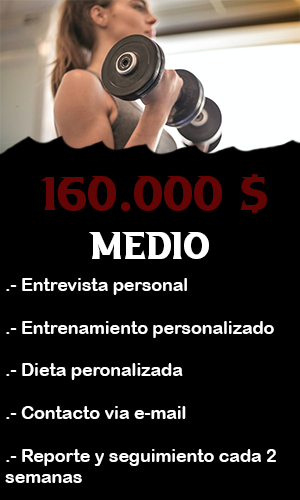
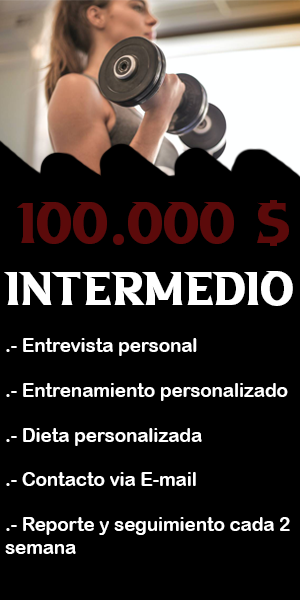
Index terminado

Changed region(s): [[0.0, 0.0, 1.0, 0.6], [0.0, 0.63, 0.96, 0.99]]

diff --git a/index.html b/index.html
@@ -8,6 +8,8 @@
     <link href="https://cdn.jsdelivr.net/npm/bootstrap@5.1.3/dist/css/bootstrap.min.css" rel="stylesheet" integrity="sha384-1BmE4kWBq78iYhFldvKuhfTAU6auU8tT94WrHftjDbrCEXSU1oBoqyl2QvZ6jIW3" crossorigin="anonymous">
   </head>
 <body>
+
+
   
     <main style="background-color: black;">
     
@@ -80,24 +82,87 @@
         </figure>
 
       </div>
-      <div class="container-fluid text-center" style="background-color: rgb(15, 0, 0);" id="precios">
-        <br>
-        <a class="btn btn-danger" href="#precios">Plan Mensual</a> <a class="btn btn-dark" href="#precios">Plan Trimensual</a>
+      
+      <div class="container-fluid text-center " style="background-color: rgb(15, 0, 0);" id="precios">
+        <br>  
+        <a class="btn btn-danger" onclick="cambiarimagen(0)" >Plan Mensual</a> <a class="btn btn-dark" onclick="cambiarimagen(1)"  >Plan Trimestrual</a>
         <br><br>
-        <img src="imagenes/plan1.png" class="img-fluid" alt="..."> 
+        <img id="plan" src="imagenes/plan.png" class="img-fluid" alt="PLANES">
+        <script language="javascript">
+          function cambiarimagen(sw) {
+            var pic,principiante,intermedio,experto;
+            if (sw ==0){
+              pic = "imagenes/plan.png"
+            }
+            else{
+              pic = "imagenes/planb.png"
+            }
+            document.getElementById('plan').src = pic;
+          }
+        </script>
 
-        <img src="imagenes/plan2.png" class="img-fluid" alt="..."> 
+        <div class="container-fluid text-center"> 
+          <br>
+          <a class="btn btn-danger" data-bs-toggle="modal" data-bs-target="#opcion">COMPRAR PLAN PRINCIPIANTE</a>
+          <a class="btn btn-danger " data-bs-toggle="modal" data-bs-target="#opcion2">COMPRAR PLAN INTERMEDIO</a>
+          <a class="btn btn-danger " data-bs-toggle="modal" data-bs-target="#opcion3">COMPRAR PLAN EXPERTO</a>
+          <div class="modal fade" id="opcion" tabindex="-1" aria-labelledby="exampleModalLabel" aria-hidden="true">
+            <div class="modal-dialog">
+              <div class="modal-content">
+                <div class="modal-header" style="background-color: rgb(53, 2, 2);">
+                  <h5 class="modal-title" id="exampleModalLabel" style="color: white;">Escoge la duración de tu plan</h5>
+                  <button type="button" class="btn-close" data-bs-dismiss="modal" aria-label="Close"></button>
+                </div>
+                <div class="modal-body">
+                  <button type="button" class="btn btn-danger">Plan Mensual</button>
+                  <button type="button" class="btn btn-danger">Plan Trimestrual</button>
+                </div>
+                <div class="modal-footer">
+                  <button type="button" class="btn btn-dark" data-bs-dismiss="modal">Cancelar</button>
+                </div>
+              </div>
+            </div>
+          </div>
 
-        <img src="imagenes/plan3.png" class="img-fluid" alt="..."> 
+          <div class="modal fade" id="opcion2" tabindex="-1" aria-labelledby="exampleModalLabel" aria-hidden="true">
+            <div class="modal-dialog">
+              <div class="modal-content">
+                <div class="modal-header" style="background-color: rgb(53, 2, 2);">
+                  <h5 class="modal-title" id="exampleModalLabel" style="color: white;">Escoge la duración de tu plan</h5>
+                  <button type="button" class="btn-close" data-bs-dismiss="modal" aria-label="Close"></button>
+                </div>
+                <div class="modal-body">
+                  <button type="button" class="btn btn-danger">Plan Mensual</button>
+                  <button type="button" class="btn btn-danger">Plan Trimestrual</button>
+                </div>
+                <div class="modal-footer">
+                  <button type="button" class="btn btn-dark" data-bs-dismiss="modal">Cancelar</button>
+                </div>
+              </div>
+            </div>
+          </div>
 
+          <div class="modal fade" id="opcion3" tabindex="-1" aria-labelledby="exampleModalLabel" aria-hidden="true">
+            <div class="modal-dialog">
+              <div class="modal-content">
+                <div class="modal-header" style="background-color: rgb(53, 2, 2);">
+                  <h5 class="modal-title" id="exampleModalLabel" style="color: white;">Escoge la duración de tu plan</h5>
+                  <button type="button" class="btn-close" data-bs-dismiss="modal" aria-label="Close"></button>
+                </div>
+                <div class="modal-body">
+                  <button type="button" class="btn btn-danger">Plan Mensual</button>
+                  <button type="button" class="btn btn-danger">Plan Trimestrual</button>
+                </div>
+                <div class="modal-footer">
+                  <button type="button" class="btn btn-dark" data-bs-dismiss="modal">Cancelar</button>
+                </div>
+              </div>
+            </div>
+          </div>
+        </div>
+        
+        <br>
       </div>
-      <div class="container-fluid text-center" style="background-color: rgb(15, 0, 0);" id="precios">
-      <a class="btn btn-danger" href="#precios">COMPRAR</a>
-      <a class="btn btn-danger" href="#precios">COMPRAR</a>
-      <a class="btn btn-danger" href="#precios">COMPRAR</a>
-      </div>
-    </div>
-
     </main>
     
     
@@ -118,3 +183,5 @@
   </footer>
 
 </html>
+
+
